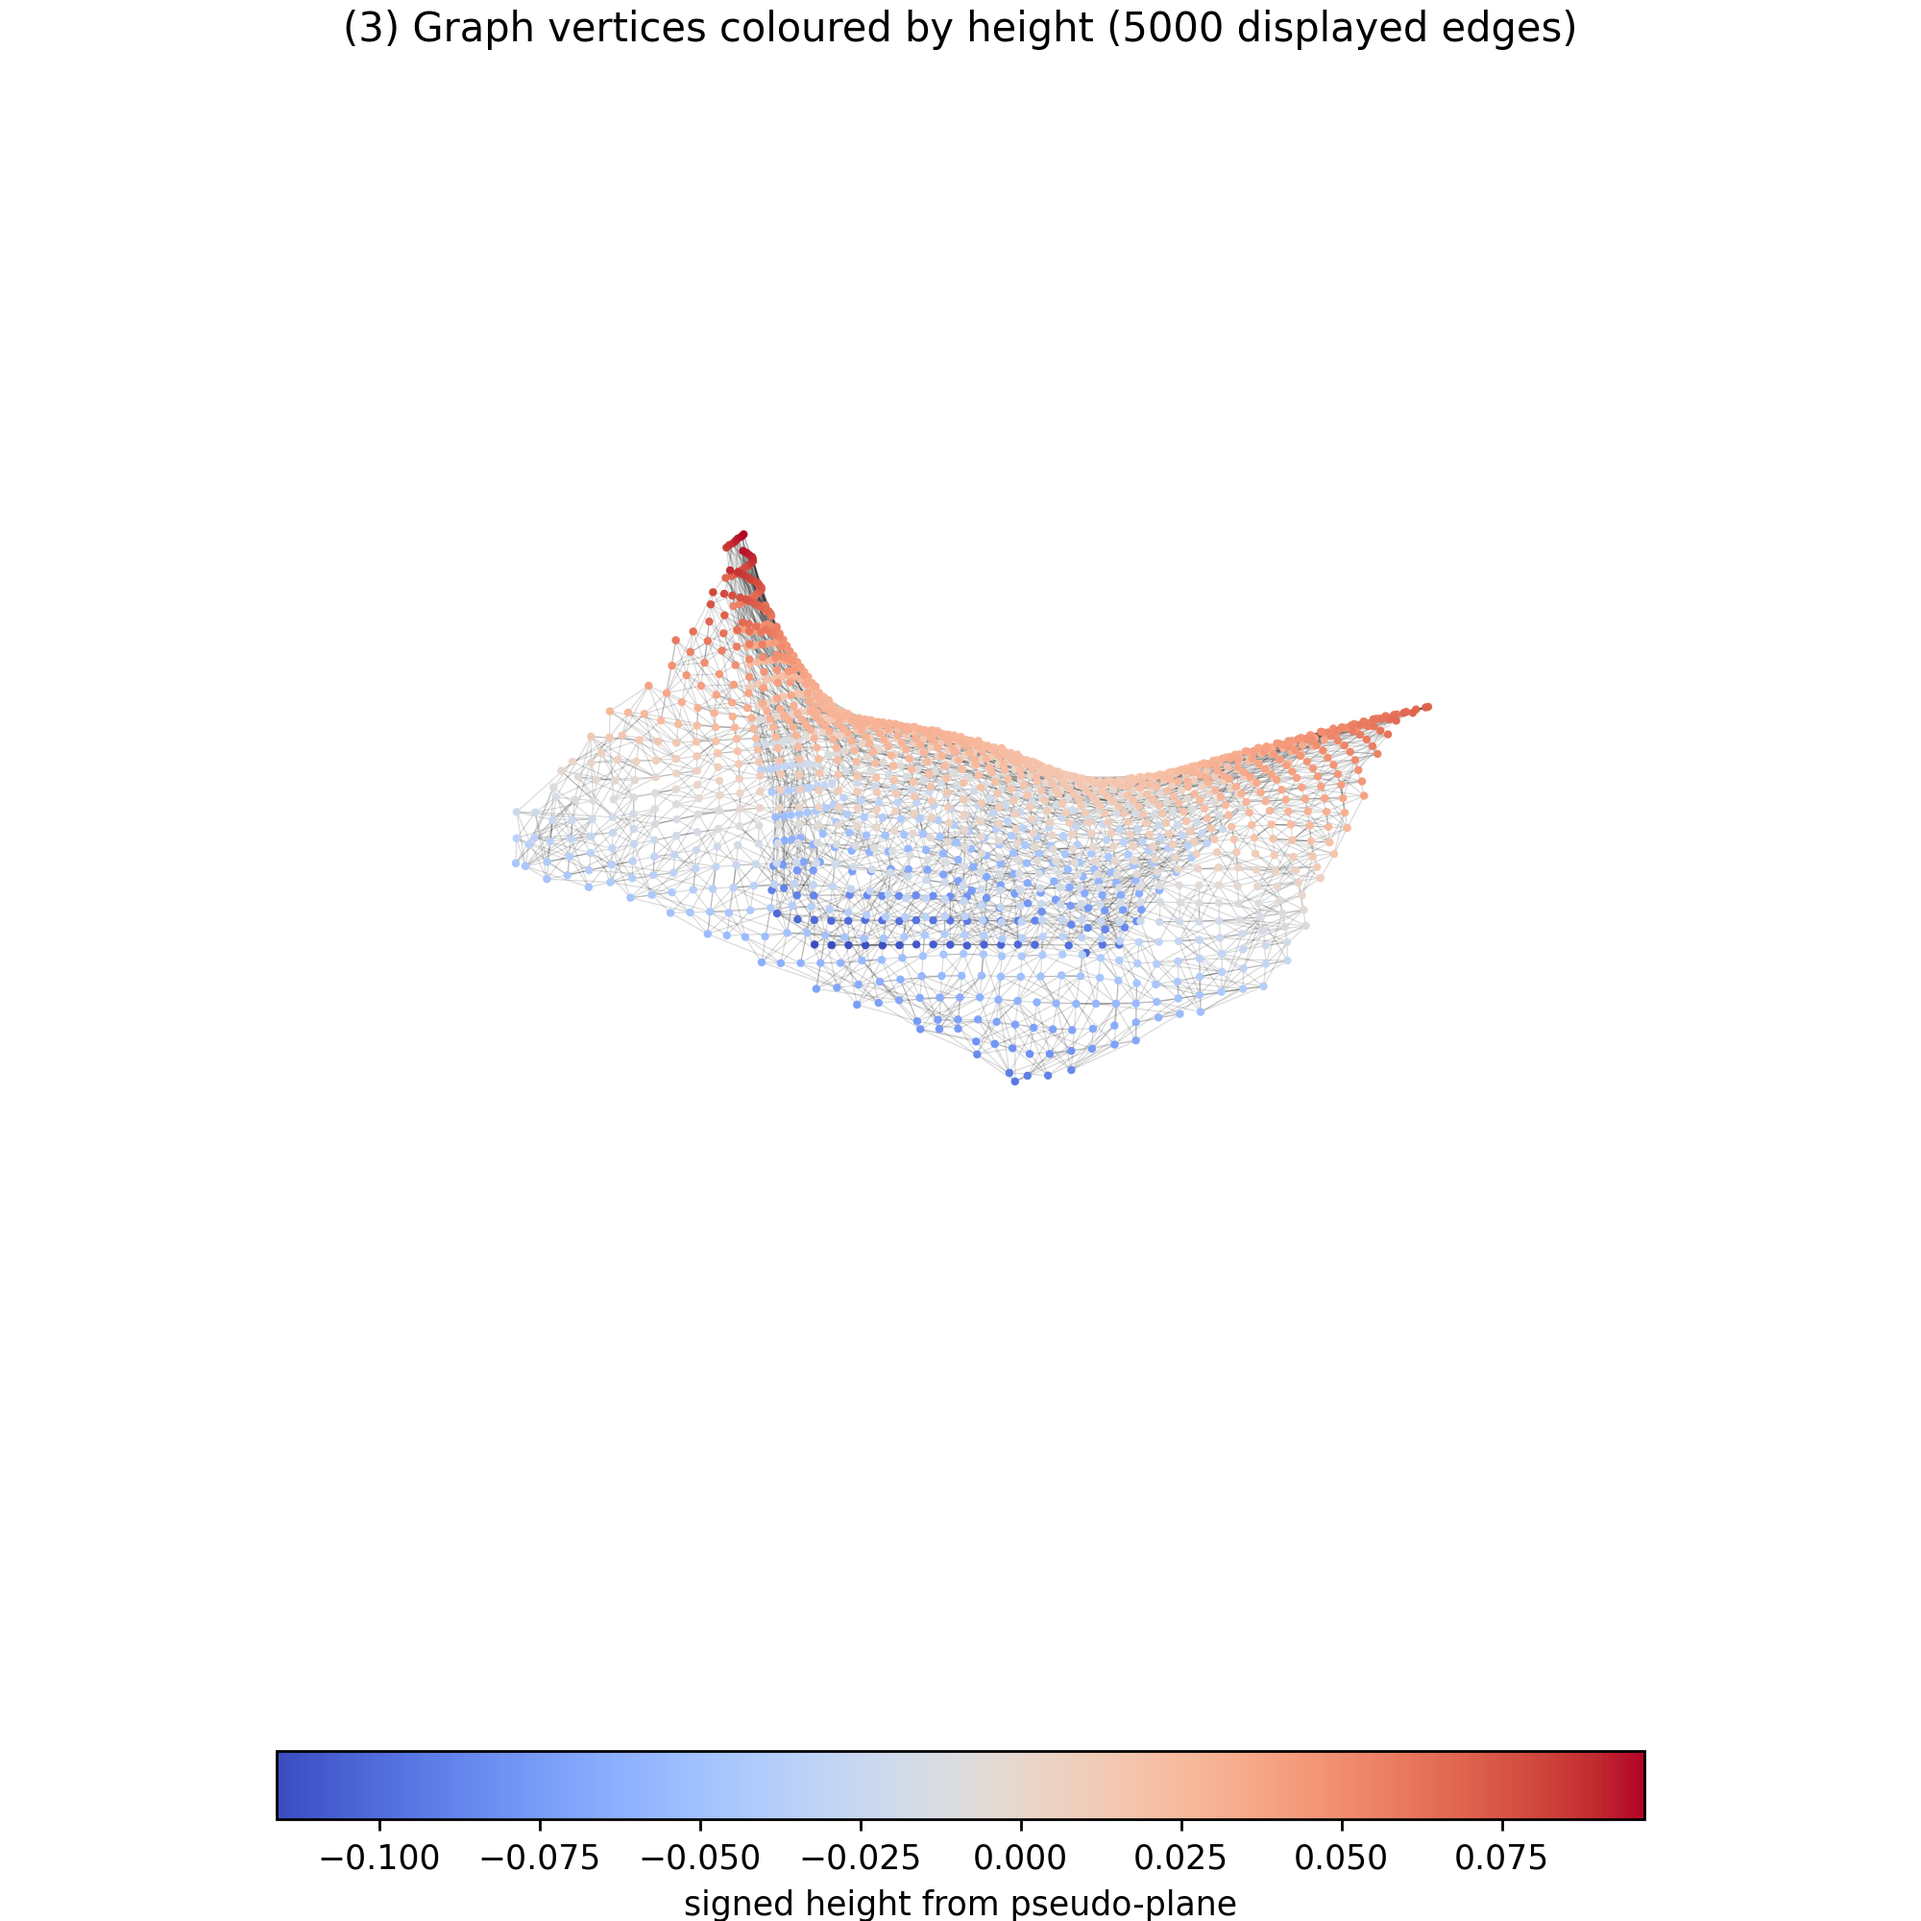
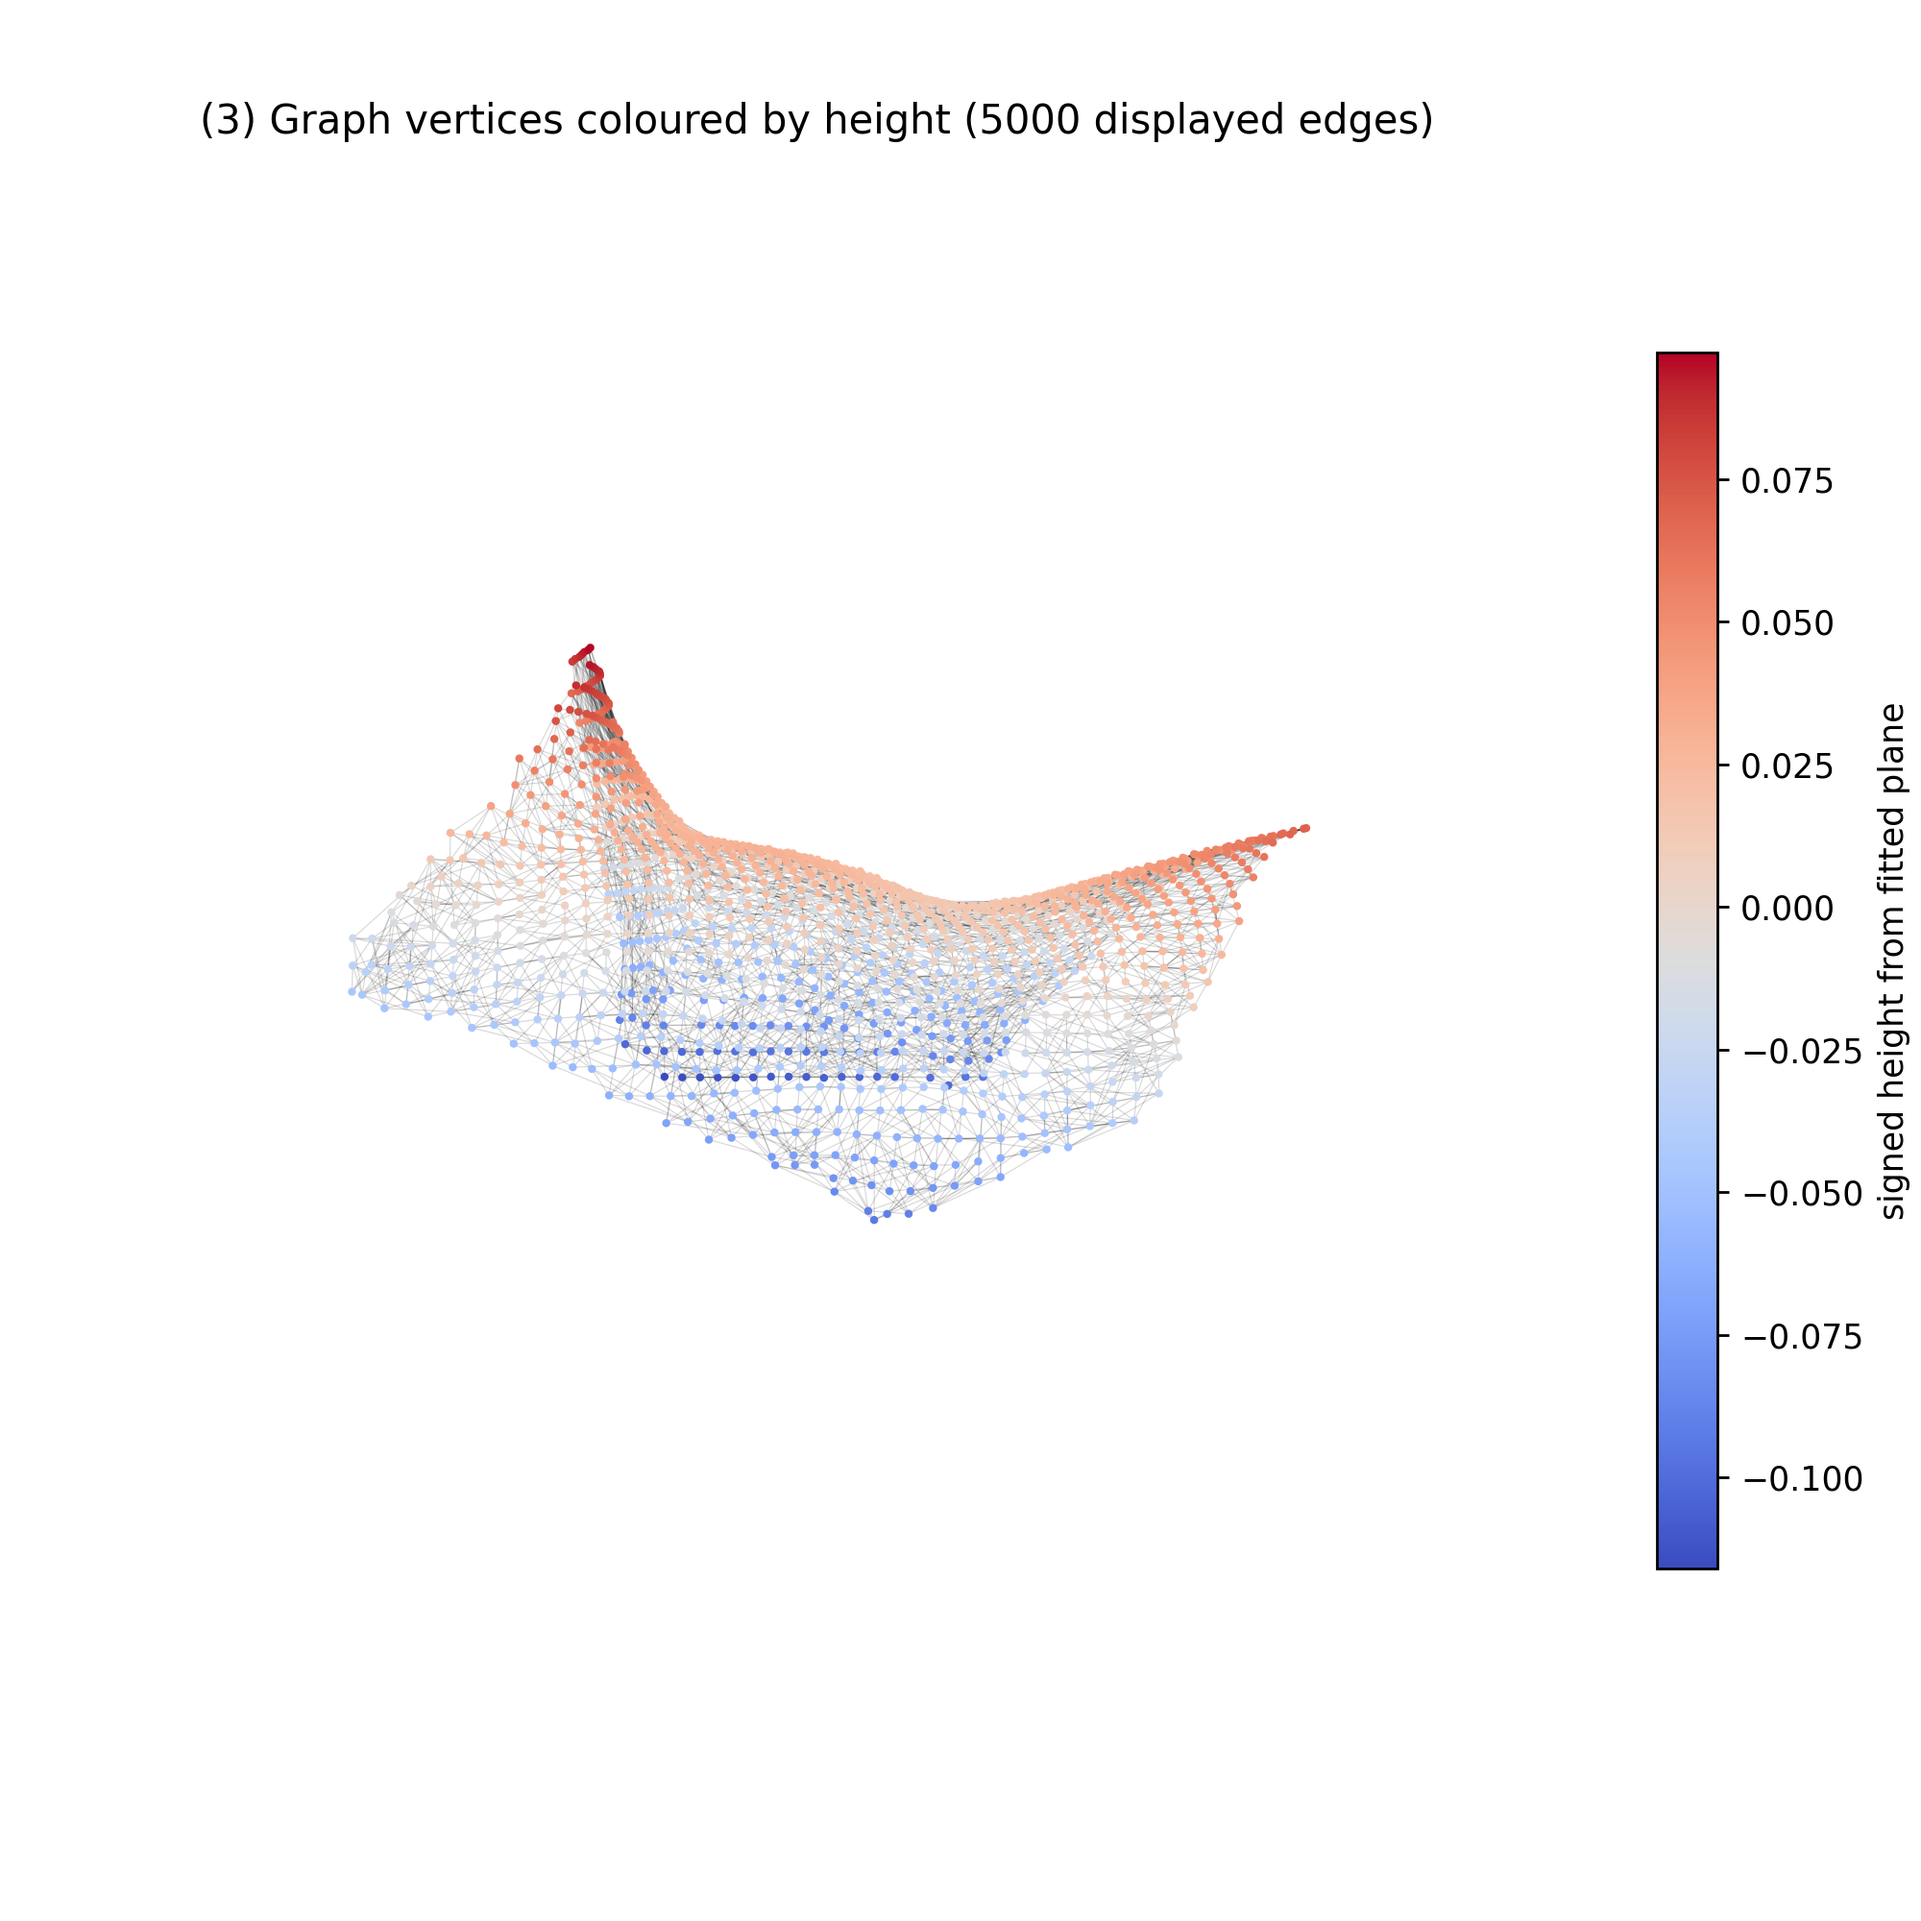
ADD: 埋め込みフローチャートの作成図を追加

diff --git a/DW3_demo_embflow.py b/DW3_demo_embflow.py
@@ -18,7 +18,8 @@ from pathlib import Path
 import matplotlib.pyplot as plt
 import numpy as np
 import open3d as o3d
-from matplotlib.colors import Normalize
+from matplotlib.colors import LinearSegmentedColormap, Normalize, TwoSlopeNorm
+from matplotlib.ticker import FormatStrFormatter
 
 import DW1_X1_func as DW1X1
 import DW2_func as DW2F
@@ -192,10 +193,8 @@ def save_height_graph_figure(
         displayed[:, 0], displayed[:, 1], displayed[:, 2], c=heights,
         cmap=cmap, norm=normalizer, s=point_size, depthshade=False,
     )
-    colorbar = figure.colorbar(
-        dots, ax=axis, orientation="horizontal", shrink=0.72, pad=0.08
-    )
-    colorbar.set_label("signed height from pseudo-plane")
+    colorbar = figure.colorbar(dots, ax=axis, shrink=0.64, pad=0.02)
+    colorbar.set_label("signed height from fitted plane")
     set_equal_3d_axes(axis, displayed)
     axis.view_init(elev=elevation, azim=azimuth)
     suffix = "all edges" if maximum_edges <= 0 else f"{min(maximum_edges, len(unique_graph_edges(weights, 0)))} displayed edges"
@@ -226,8 +225,70 @@ def save_gft_figure(coefficients: np.ndarray, output: Path, bins: int = 50) -> N
     plt.close(figure)
 
 
+def illustrative_gft_modulation(
+    cluster: np.ndarray, normal: np.ndarray, basis: np.ndarray
+) -> tuple[np.ndarray, np.ndarray]:
+    """Apply a smooth, visible low-frequency explanation-only perturbation."""
+    point_count = len(cluster)
+    # Skip the DC component but modify only the first 1--10% of the spectrum.
+    # This makes the inverse-GFT displacement smooth over the whole cluster.
+    start, end = max(1, int(point_count * 0.01)), max(2, int(point_count * 0.10))
+    targets = np.arange(start, end, dtype=int)
+    coefficient_change = np.zeros(point_count, dtype=np.float64)
+    # Modulate the complete low-frequency band with a smooth coefficient
+    # envelope, rather than perturbing a few isolated spectral samples.
+    coefficient_change[targets] = np.cos(np.linspace(0.0, np.pi, len(targets)))
+    unit_height_change = basis @ coefficient_change
+    # Explanation figure: a visible 6% peak shift relative to the selected
+    # cluster's bounding-box diagonal, while retaining a smooth deformation.
+    target_peak = 0.06 * float(np.linalg.norm(np.ptp(cluster, axis=0)))
+    scale = target_peak / max(float(np.max(np.abs(unit_height_change))), 1e-12)
+    height_change = unit_height_change * scale
+    modulated = cluster + height_change[:, None] * normal[None, :]
+    return modulated, height_change
+
+
+def save_modulated_cluster_figure(
+    cluster: np.ndarray, modulated: np.ndarray, height_change: np.ndarray,
+    output: Path, point_size: float, elevation: float, azimuth: float,
+) -> None:
+    """Show the inverse-GFT result overlaid on the original selected cluster."""
+    figure = plt.figure(figsize=(8, 8), constrained_layout=True)
+    axis = figure.add_subplot(projection="3d")
+    displayed_original = display_coordinates(cluster)
+    displayed_modulated = display_coordinates(modulated)
+    axis.scatter(
+        displayed_original[:, 0], displayed_original[:, 1], displayed_original[:, 2],
+        c="#9e9e9e", s=point_size * 0.9, alpha=0.40, depthshade=False,
+    )
+    # Use a robust display range rather than the single largest displacement.
+    # This deliberately saturates the largest 30% so the smooth, typical
+    # positive/negative movement is not compressed into the central green.
+    color_peak = max(float(np.quantile(np.abs(height_change), 0.70)), 1e-12)
+    signed_displacement_cmap = LinearSegmentedColormap.from_list(
+        "signed_displacement", ["#542788", "#1b9e77", "#fde725"]
+    )
+    dots = axis.scatter(
+        displayed_modulated[:, 0], displayed_modulated[:, 1], displayed_modulated[:, 2],
+        c=height_change, cmap=signed_displacement_cmap,
+        norm=TwoSlopeNorm(vmin=-color_peak, vcenter=0.0, vmax=color_peak),
+        s=point_size * 1.25, depthshade=False,
+    )
+    colorbar = figure.colorbar(
+        dots, ax=axis, orientation="horizontal", shrink=0.72, pad=0.08
+    )
+    colorbar.set_ticks((-color_peak, 0.0, color_peak))
+    colorbar.ax.xaxis.set_major_formatter(FormatStrFormatter("%.3f"))
+    colorbar.set_label("signed normal-direction displacement (color range clipped)")
+    set_equal_3d_axes(axis, displayed_original)
+    axis.view_init(elev=elevation, azim=azimuth)
+    axis.set_title("(5) Smooth low-frequency GFT modulation (original: gray)")
+    figure.savefig(output, dpi=250, facecolor="white")
+    plt.close(figure)
+
+
 def main() -> None:
-    parser = argparse.ArgumentParser(description="Generate four explanatory proposed-method embedding-flow figures.")
+    parser = argparse.ArgumentParser(description="Generate five explanatory proposed-method embedding-flow figures.")
     parser.add_argument("--input", default=DEFAULT_INPUT, help="Input triangle mesh.")
     parser.add_argument("--cluster-points", type=int, default=DEFAULT_CLUSTER_POINTS, help="Target number of points per KMeans cluster.")
     parser.add_argument("--cluster-id", type=int, default=None, help="Cluster ID to focus on; omit for the most-horizontal pseudo-plane.")
@@ -261,7 +322,12 @@ def main() -> None:
     centroid, normal = DW1X1.compute_pseudoplane_pca(selected)
     heights = DW1X1.cluster_height_signal(selected, centroid, normal)
     graph = DW1X1.build_graph(selected, graph_mode=args.graph_mode, k=args.k, radius=args.radius)
-    coefficients, _eigenvalues = DW1X1.gft_analyze_signals_auto(graph, heights)
+    # Keep the basis for the final inverse-GFT visualisation as well.
+    basis, _eigenvalues = DW1X1.gft_basis_auto(graph)
+    coefficients = DW1X1.gft(heights, basis)
+    modulated_cluster, height_change = illustrative_gft_modulation(
+        selected, normal, basis
+    )
 
     output_dir = Path(args.output_dir)
     output_dir.mkdir(parents=True, exist_ok=True)
@@ -270,6 +336,7 @@ def main() -> None:
         output_dir / f"{args.prefix}_2_pseudoplane.png",
         output_dir / f"{args.prefix}_3_height_graph.png",
         output_dir / f"{args.prefix}_4_gft.png",
+        output_dir / f"{args.prefix}_5_modulated_cluster.png",
     )
     save_cluster_figure(
         points, labels, selected_label, outputs[0], args.point_size,
@@ -284,6 +351,10 @@ def main() -> None:
         args.max_graph_edges, args.view_elev, args.view_azim,
     )
     save_gft_figure(coefficients, outputs[3])
+    save_modulated_cluster_figure(
+        selected, modulated_cluster, height_change, outputs[4], args.point_size,
+        args.view_elev, args.view_azim,
+    )
 
     print(f"Selected cluster: id={selected_label}, points={len(selected)}")
     print(f"Graph: mode={args.graph_mode}, k={args.k}, edges={len(unique_graph_edges(graph, 0))}")
